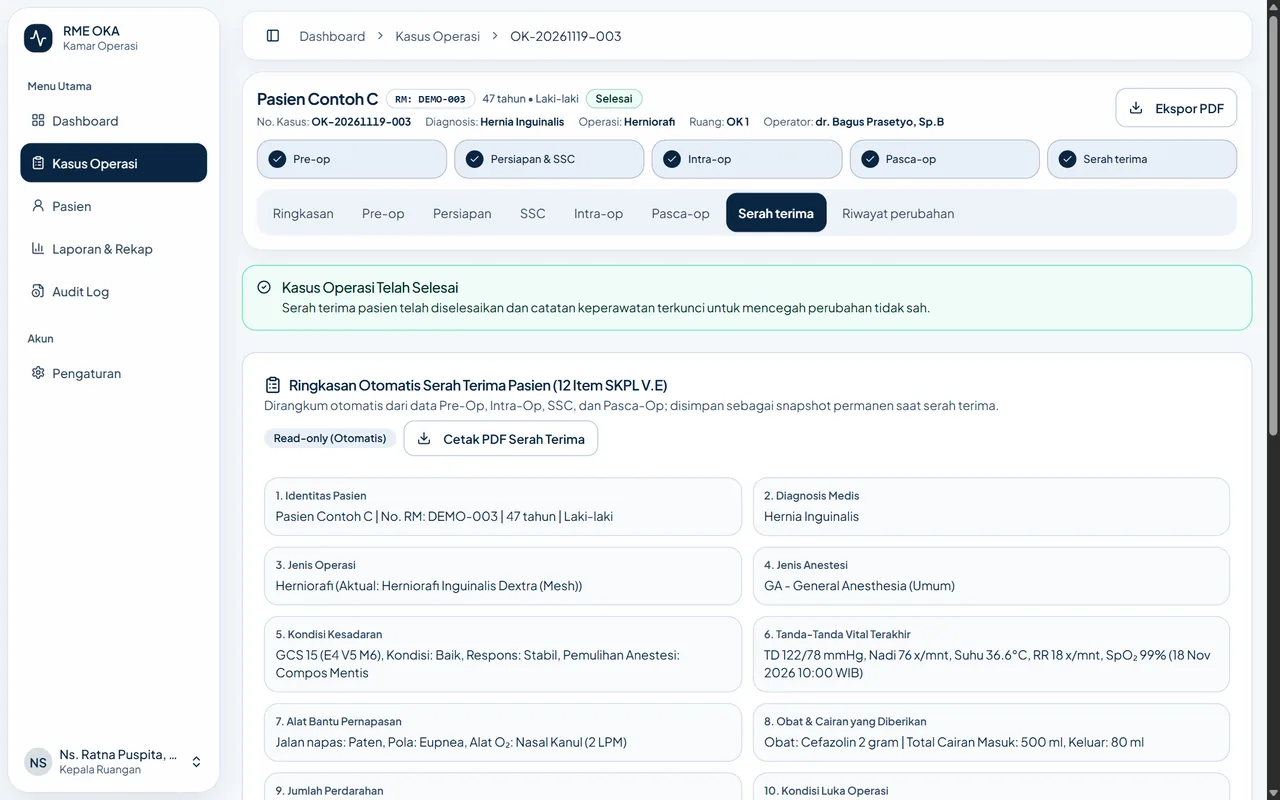
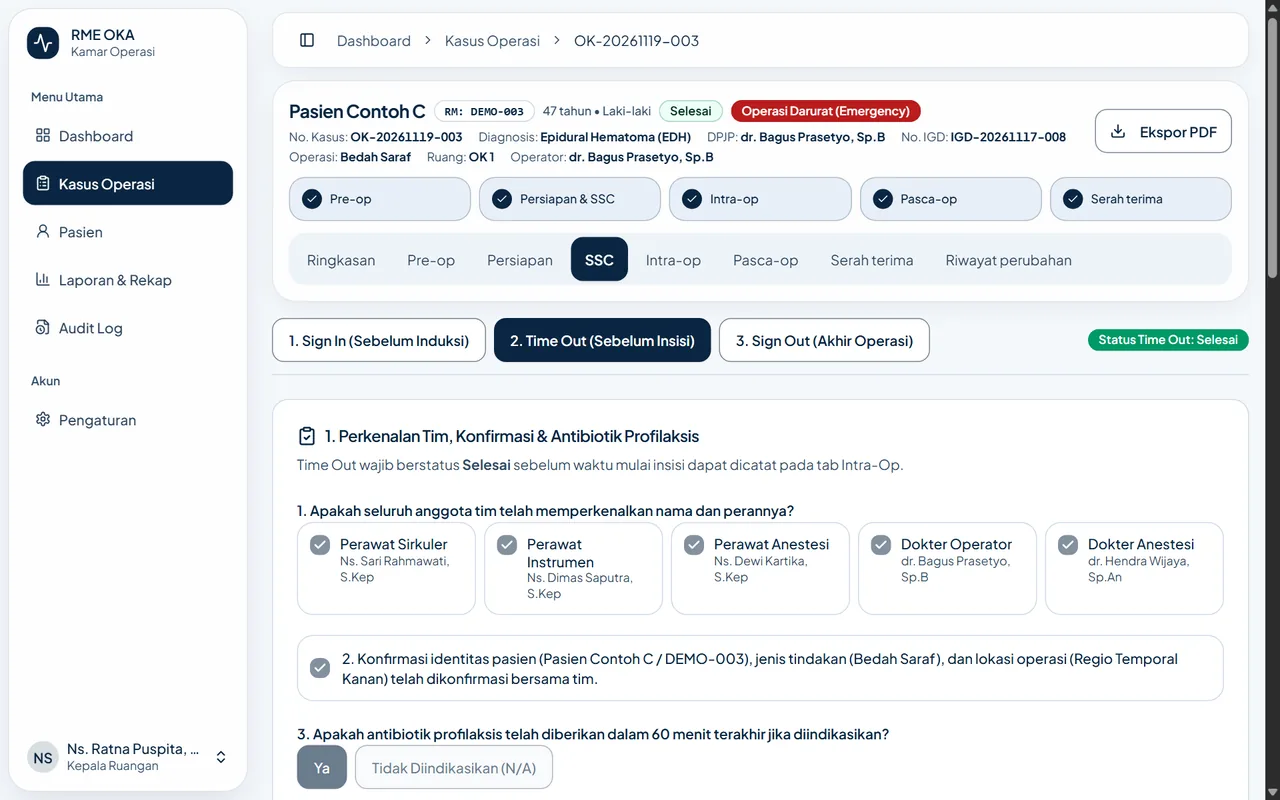
feat(projects): update RME OKA details, SKPL Revisi 1 workflows, 95 Pest tests, and latest WebP screenshots

diff --git a/src/data/projects.ts b/src/data/projects.ts
@@ -54,7 +54,7 @@ export const projectsData: Project[] = [
     company: 'RSU Universitas Muhammadiyah Jember (SKPL Fikes)',
     category: 'Gov & EdTech',
     description:
-      'Perioperative nursing Electronic Medical Record (EHR) platform covering Pre-Op (20 SDKI/SLKI/SIKI diagnoses), Surgical Preparation, WHO Surgical Safety Checklist (Sign In, Time Out, Sign Out), Intra-Op vital-sign SVG trend charts and 5-item instrument counts, Post-Op observation, 12-item permanent handover snapshots, and hospital-headed DomPDF exports. Enforces 5 RBAC roles, sequential 6-stage status gating, optimistic concurrency locking, global Spatie Activitylog auditing, and 86 Pest tests (1,368 assertions).',
+      'Perioperative nursing Electronic Medical Record (EHR) aligned with SKPL Revisi 1, supporting specialty-specific dynamic workflows for Neurosurgery (EDH craniotomy) and Orthopedic Surgery (Femur Fracture ORIF/implants). Covers Pre-Op (20 SDKI/SLKI/SIKI diagnoses, native date/time pickers), Surgical Preparation, WHO Surgical Safety Checklist (Sign In, Time Out, Sign Out), Intra-Op vital-sign SVG trend charts and 5-item instrument counts, Post-Op observation, 12-item permanent handover snapshots, upcoming surgery dashboard schedules, and hospital-headed DomPDF exports. Enforces 5 RBAC roles, sequential 6-stage status gating, optimistic concurrency locking, global Spatie Activitylog auditing, and 95 Pest tests (1,697 assertions).',
     skills: ['Laravel 12', 'Inertia.js', 'React 19', 'TypeScript', 'Tailwind CSS 4', 'MySQL'],
     tags: ['Healthcare System'],
     images: [
